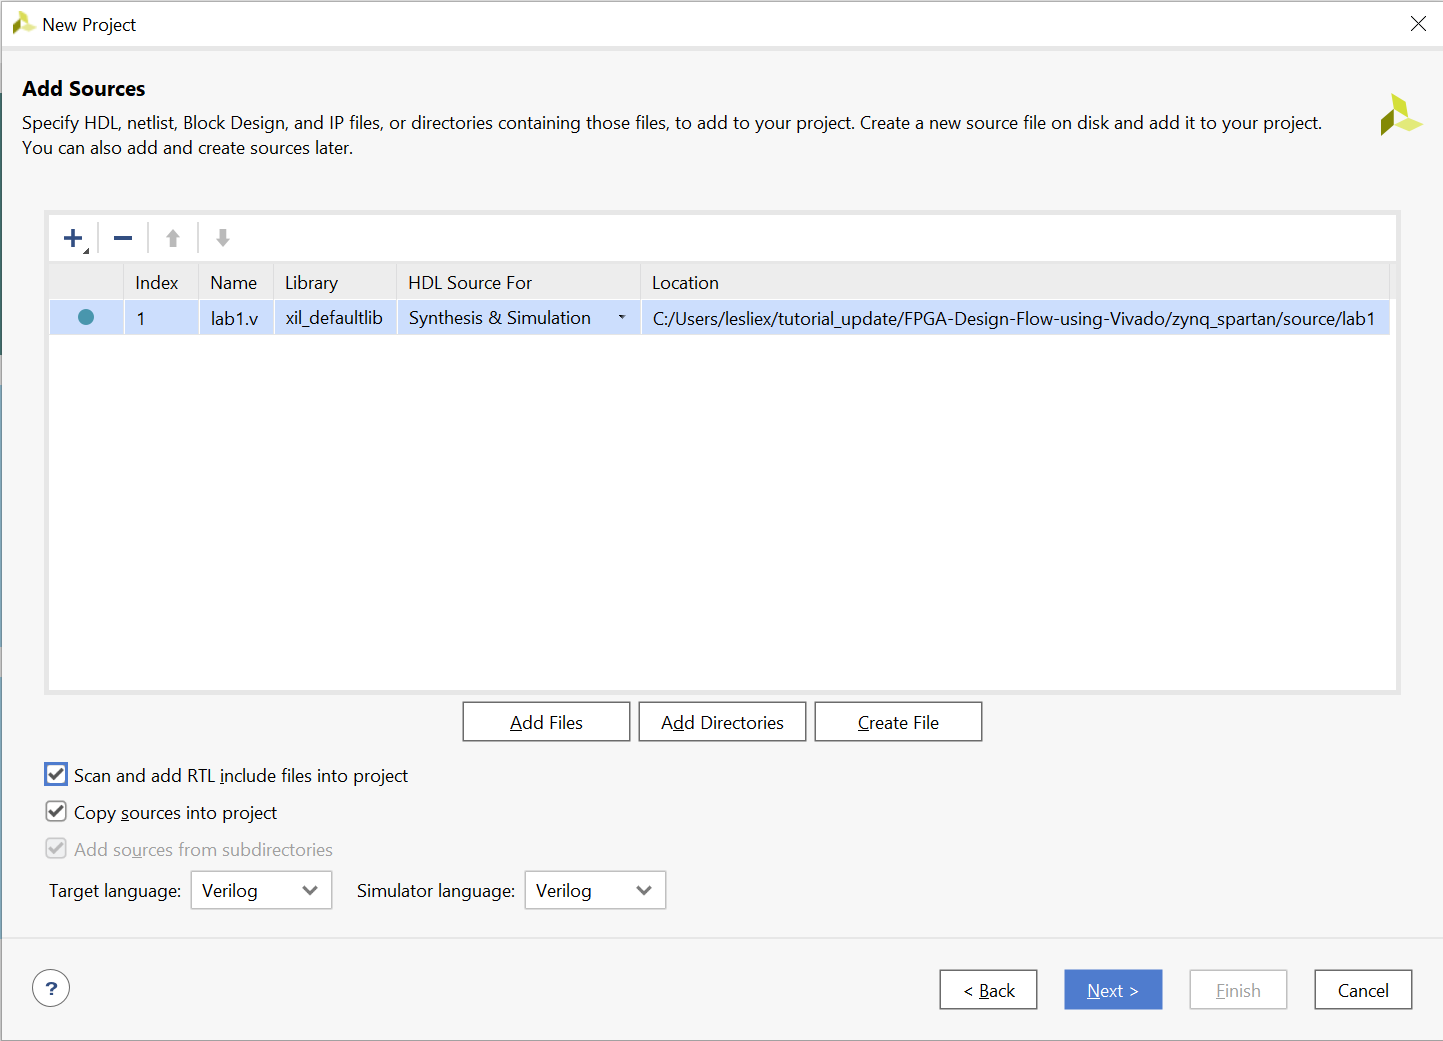
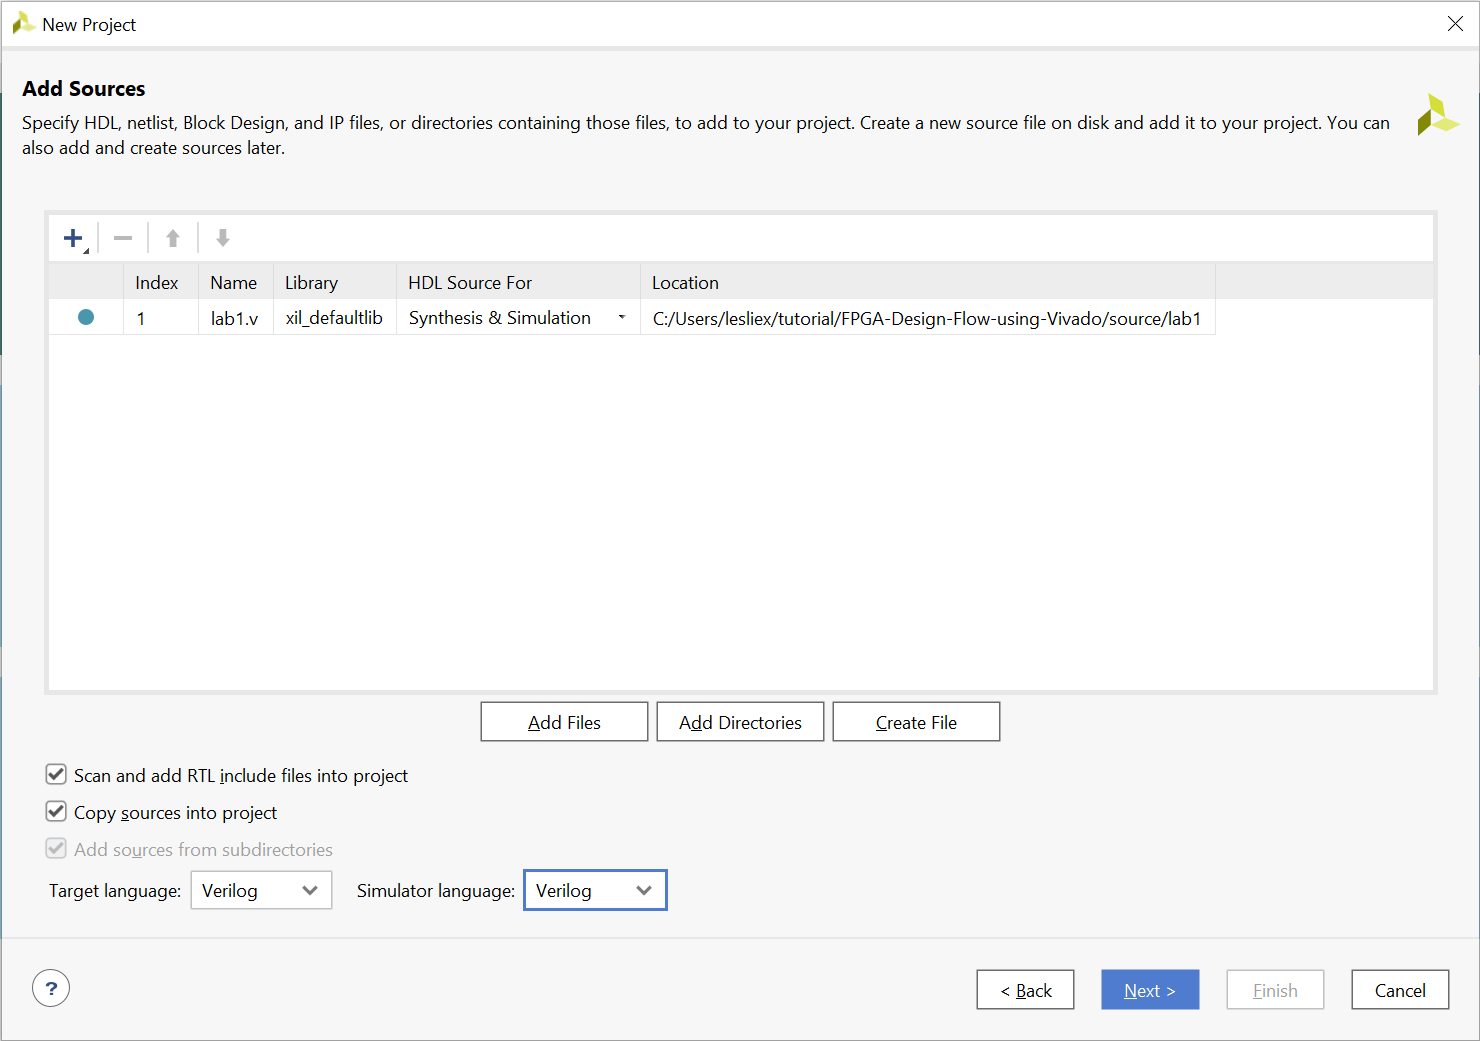
lab1 add boolean flow

diff --git a/lab1.md b/lab1.md
@@ -16,11 +16,11 @@ After completing this lab, you will be able to:
 
 ### Create a Vivado Project using IDE                                                   
 
-#### Launch Vivado and create an empty project targeting the Boolean or PYNQ-Z2 board, selecting Verilog as a target language. Use the provided lab1.v and lab1\_zynq.xdc files(For Pynq-Z2) and lab1_spartan.xdc (for Boolean) from the *.\\sources\\lab1\\* directory.
+#### Launch Vivado and create an empty project targeting the Boolean or PYNQ-Z2 board, selecting Verilog as a target language. Use the provided lab1.v and lab1\_zynq.xdc files(For PYNQ-Z2) and lab1_spartan.xdc (for Boolean) from the *.\\sources\\lab1\\* directory.
 
 1. Open Vivado by selecting **Start > Xilinx Design Tools > Vivado 2021.2**
 2. Click **Create New Project** to start the wizard. You will see *Create A New Vivado Project* dialog box. Click **Next**.
-3. Click the Browse button of the *Project location* field of the **New Project** form, browse to **C:\vivado_tutorial**, and click **Select**.
+3. Click the Browse button of the *Project location* field of the **New Project** form, browse to **{LABS}**, i.e. **C:\vivado_tutorial**, and click **Select**.
 4. Enter **lab1** in the *Project name* field.  Make sure that the *Create Project Subdirectory* box is checked.  Click **Next**.
 
 <p align="center">
@@ -41,7 +41,7 @@ After completing this lab, you will be able to:
 <i>Selecting Target and Simulator language</i>
 </p>	
 
-7. Click on the **Blue Plus** button, then **Add Files…** and browse to the **.sources\lab1** directory, select *lab1.v,* click **OK**.
+7. Click on the **Blue Plus** button, then **Add Files…** and browse to the **{sources}\lab1** directory, select *lab1.v,* click **OK**.
 
    <p align="center">
    <img src ="./images/lab1/Fig5.png">
@@ -53,11 +53,11 @@ After completing this lab, you will be able to:
 
 8. Click **Next** to get to the *Add Constraints* form.
 
-9. Click on the **Blue Plus** button, then **Add Files…** and browse to the **C:\xup\fpga\_flow\2018\_2\_zynq\_sources\lab1** directory (if necessary), select *lab1\_zynq.xdc* and click **OK** (if necessary), and then click **Next.**
+9. Click on the **Blue Plus** button, then **Add Files…** and browse to the **{SOURCES}\lab1** directory (if necessary), select *lab1\_zynq.xdc* (for PYNQ-Z2) or *lab1_spratan.xdc* (for Boolean) and click **OK** (if necessary), and then click **Next.**
 
    The Xilinx Design Constraints file assigns the physical IO locations on FPGA to the switches and LEDs located on the board.  This information can be obtained either through the board’s schematic or the board’s user guide. 
 
-10. In the *Default Part* form, use the **Parts** option and various drop-down fields of the **Filter** section. Select the **XC7Z020clg400-1**. 		
+10. In the *Default Part* form, use the **Parts** option and various drop-down fields of the **Filter** section. Select the **XC7Z020clg400-1**(for PYNQ-Z2) . 		
 
     <p align="center">
     <img src ="./images/lab1/Fig6.png">
@@ -65,19 +65,53 @@ After completing this lab, you will be able to:
     <p align = "center">
     <i>Part Selection for the PYNQ</i>
     </p>
+    You may also select the **Boards** option, tul.com.tw for the PYNQ-Z2 board under the Vendor filter and select the appropriate board. Notice that Boolean and  PYNQ-Z2 may not be listed as they are not in the tools database. If not listed then you can download the board files for the desired boards from TUL PYNQ-Z2 webpage.
 
-    You may also select the **Boards** option, select www.digilentinc.com for the PYNQ-Z1 board, tul.com.tw for the PYNQ-Z2 board under the Vendor filter and select the appropriate board. Notice that PYNQ-Z1 and PYNQ-Z1 may not be listed as they are not in the tools database. If not listed then you can download the board files for the desired boards either from Digilent PYNQ-Z1 webpage or TUL PYNQ-Z2 webpage. Click **Next**.
+    or **xc7s50csga-1** (for Boolean)
+
+    <p align="center">
+    <img src ="./images/lab1/boolean_select.png">
+    </p>
+    <p align = "center">
+    <i>Part Selection for the Boolean</i>
+    </p>
+
+    
+
+     Click **Next**.
 
 11.  Click **Finish** to create the Vivado project.  
 
-Use the Windows Explorer and look at the **C:\xup\fpga\_flow\2018\_2\_zynq\_labs\lab1** directory.  You will find that the lab1.cache and lab1.srcs directories and the lab1.xpr (Vivado) project file have been created. The lab1.cache directory is a place holder for the Vivado program database. Two directories, constrs\_1 and sources\_1, are created under the lab1.srcs directory; deep down under them, the copied lab1\_<board>.xdc (constraint) and lab1.v (source) files respectively are placed.
+Use the Windows Explorer and look at the **{LABS}\lab1** directory.  You will find that the lab1.cache and lab1.srcs directories and the lab1.xpr (Vivado) project file have been created. The lab1.cache directory is a place holder for the Vivado program database. Two directories, constrs\_1 and sources\_1, are created under the lab1.srcs directory; deep down under them, the copied lab1\_<board>.xdc (constraint) and lab1.v (source) files respectively are placed.
 
-<p align="center">
-<img src ="./images/lab1/Fig7.png">
-</p>
-<p align = "center">
-<i>Generated directory structure</i>
-</p>
+```
+lab1
+│  lab1.xpr
+│  struc.txt
+│  
+├─lab1.cache
+│  └─wt
+│          project.wpc
+│          
+├─lab1.hw
+│      lab1.lpr
+│      
+├─lab1.ip_user_files
+├─lab1.sim
+└─lab1.srcs
+    ├─constrs_1
+    │  └─imports
+    │      └─lab1
+    │              lab1_spartan.xdc
+    │              
+    └─sources_1
+        └─imports
+            └─lab1
+                    lab1.v
+```
+
+
+
 
 #### Open the lab1.v source and analyze the content.
 
@@ -96,7 +130,9 @@ Use the Windows Explorer and look at the **C:\xup\fpga\_flow\2018\_2\_zynq\_labs
 
 4. Lines 8-9 defines the input and output ports whereas lines 12-15 defines the actual functionality.
 
-#### Open the lab1\_zynq.xdc source and analyze the content.
+#### Open the lab1\_<board>.xdc source and analyze the content.
+
+##### For PYNQ-Z2:
 
 1. In the *Sources* pane, expand the *Constraints* folder and double-click the **lab1\_zynq.xdc** entry to open the file in text mode. 
 
@@ -107,7 +143,15 @@ Use the Windows Explorer and look at the **C:\xup\fpga\_flow\2018\_2\_zynq\_labs
    <i>Opening the constraint file</i>
    </p>
 
-2.  Lines 5-8 define the pin locations for the input buttons and lines 13-16 define pin locations for output LEDs.
+2. Lines 5-8 define the pin locations for the input buttons and lines 13-16 define pin locations for output LEDs.
+
+##### For Boolean
+
+1. In the *Sources* pane, expand the *Constraints* folder and double-click the **lab1\_spartan.xdc** entry to open the file in text mode. 
+
+   <img src="./images/lab1/boolean_constr.png" alt="image" style="zoom:55%;" />
+
+2. Lines 17-20 define the pin locations for the input buttons and lines 10-13 define pin locations for output LEDs.
 
 ### Perform RTL analysis on the source file.
 
@@ -147,7 +191,7 @@ The model (design) will be elaborated and a logic view of the design is displaye
 
 3. In the *Add Sources Files* form, click the **Blue Plus** button and then **Add Files…**.
 
-4. Browse to the **C:\xup\fpga\_flow\2018\_2\_zynq\_sources\lab1** folder and select *lab1\_tb.v* and click **OK**.
+4. Browse to the **{SOURCES}\lab1** folder and select *lab1\_tb.v* and click **OK**.
 
 5. Click **Finish**.
 
@@ -207,12 +251,55 @@ The model (design) will be elaborated and a logic view of the design is displaye
 
    Notice that the **lab1.sim** directory is created under the **lab1** directory, along with several lower-level directories. 
 
-   <p align="center">
-   <img src ="./images/lab1/Fig17.png">
-   </p>
-   <p align = "center">
-   <i>Directory structure after running behavioral simulation</i>
-   </p>
+```
+//Directory structure after running behavioral simulation
+lab1.sim  
+└─sim_1
+    └─behav
+        └─xsim
+            │  compile.bat
+            │  compile.log
+            │  elaborate.bat
+            │  elaborate.log
+            │  glbl.v
+            │  lab1_tb.tcl
+            │  lab1_tb_behav.wdb
+            │  lab1_tb_vlog.prj
+            │  simulate.bat
+            │  simulate.log
+            │  xelab.pb
+            │  xsim.ini
+            │  xvlog.log
+            │  xvlog.pb
+            │  
+            └─xsim.dir
+                ├─lab1_tb_behav
+                │  │  Compile_Options.txt
+                │  │  TempBreakPointFile.txt
+                │  │  xsim.dbg
+                │  │  xsim.mem
+                │  │  xsim.reloc
+                │  │  xsim.rlx
+                │  │  xsim.rtti
+                │  │  xsim.svtype
+                │  │  xsim.type
+                │  │  xsim.xdbg
+                │  │  xsimcrash.log
+                │  │  xsimk.exe
+                │  │  xsimkernel.log
+                │  │  
+                │  └─obj
+                │          xsim_0.win64.obj
+                │          xsim_1.c
+                │          xsim_1.win64.obj
+                │          
+                └─xil_defaultlib
+                        glbl.sdb
+                        lab1.sdb
+                        lab1_tb.sdb
+                        xil_defaultlib.rlx
+```
+
 
    You will see several buttons next to the waveform window which can be used for the specific purpose as listed in the table below.
 
@@ -320,12 +407,16 @@ Observe the Tcl Console window and see the output is being displayed as the test
 
    Using Windows Explorer, verify that **lab1.runs** directory is created under **lab1**.  Under the **runs** directory, **synth\_1** directory is created which holds several files related to synthesis.
 
-   <p align="center">
-   <img src ="./images/lab1/Fig33.png">
-   </p>
-<p align = "center">
-<i>Directory structure after synthesizing the design</i>
-</p>
+   ```
+   //Directory structure after synthesizing the design
+   lab1.runs
+   ├─.jobs
+   └─synth_1
+       └─.Xil
+   ```
+
+
+
 
 ### Implement the Design
 
@@ -418,7 +509,7 @@ The implementation process will be run on the synthesized design.  When the proc
 
 1. Make sure that the Micro-USB cable is connected to the JTAG PROG connector.
 
-2. The PYNQ-Z1 and PYNQ-Z2 can be powered through USB power via the JTAG PROG.
+2. The Boolean and PYNQ-Z2 can be powered through USB power via the JTAG PROG.
 
    Make sure that the board is set to use USB power.
 
@@ -466,6 +557,8 @@ The implementation process will be run on the synthesized design.  When the proc
 
 7. From the dropdown menu, click **Auto Connect.**
 
+   **For PYNQ-Z2**:
+
    The Hardware Session status changes from Unconnected to the server name and the device is highlighted. Also notice that the Status indicates that it is not programmed.
 
    <p align="center">
@@ -474,6 +567,7 @@ The implementation process will be run on the synthesized design.  When the proc
    <p align = "center">
    <i>Opened hardware session</i>
    </p>
+   
 
    Select the device and verify that the lab1.bit is selected as the programming file in the General tab.
 
@@ -484,6 +578,22 @@ The implementation process will be run on the synthesized design.  When the proc
    <i>Programming file</i>
    </p>
 
+   **For Boolean**:
+
+   The Hardware Session status changes from Unconnected to the server name and the device is highlighted. Also notice that the Status indicates that it is not programmed.
+
+   ![Opened hardware session](./images/lab1/boolean_hwmg.png)
+
+   
+
+   <p align = "center">
+   <i>Opened hardware session</i>
+   </p>
+
+   Select the device and verify that the lab1.bit is selected as the programming file in the General tab.
+
+   ![image](lab1.assets/boolean_hw_dev_prop.png)
+
 8. Click on the *Program device* link in the green information bar to program the target FPGA device. Another way is to right click on the device and select *Program Device.*
 
 <p align="center">
@@ -492,6 +602,9 @@ The implementation process will be run on the synthesized design.  When the proc
 <p align = "center">
 <i>Selecting to program the FPGA</i>
 </p>
+
+
+
 
 9. Click **Program** to program the FPGA.
 

diff --git a/README.md b/README.md
@@ -20,6 +20,10 @@ The absolute path for the source code should only contain ascii characters. Deep
 
 For more information, you can refer [this](https://www.xilinx.com/support/documentation/sw_manuals/xilinx2020_2/ug973-vivado-release-notes-install-license.pdf)
 
+**{SOURCES}** refers to *\\FPGA-Design-Flow-using-Vivado\\*. You can download the source files for the labs from the cloned sources directory
+
+**{LABS}** refers to *C:\vivado\_tutorial\\*. It assumes that you will create the mentioned directory structure to carry out the labs of this workshop
+
 ---
 **NOTE**
 
